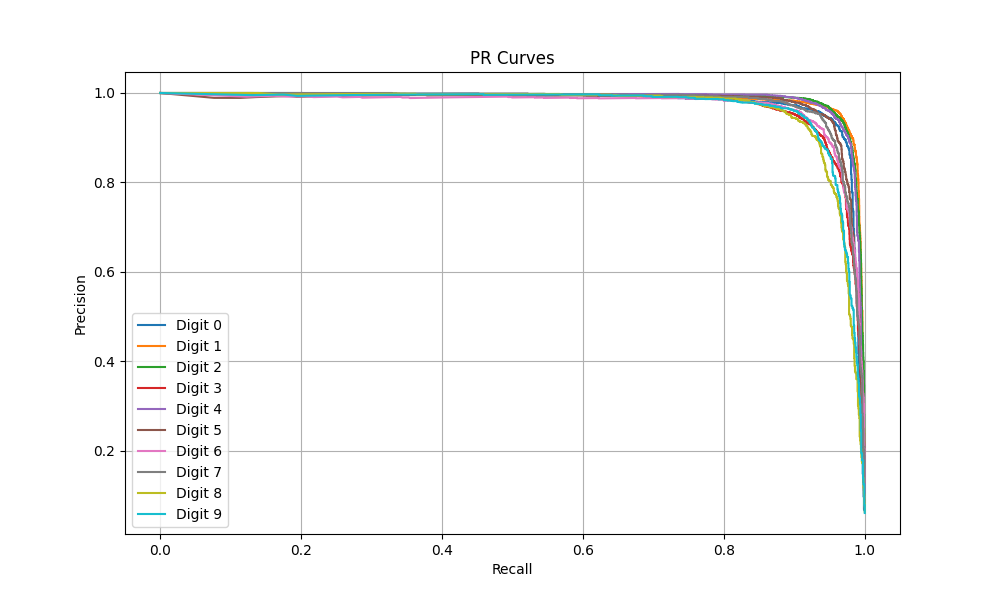
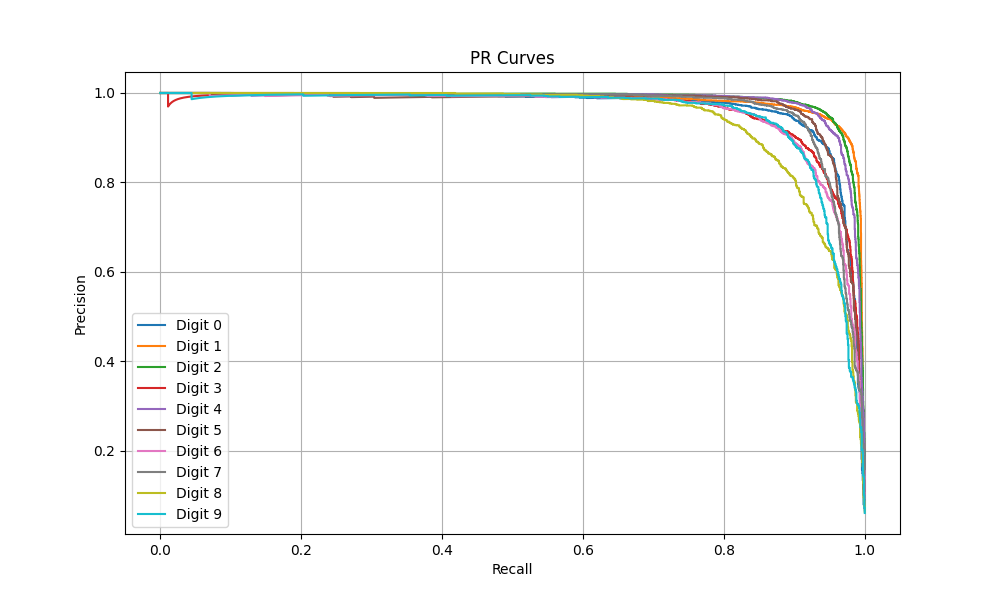
Fix: improve dacnn metrics

Changed region(s): [[0.155, 0.15, 0.868, 0.78]]

diff --git a/dacnn.py b/dacnn.py
@@ -27,7 +27,12 @@ class SpatialAttention(nn.Module):
     def __init__(self, in_channels):
         super().__init__()
 
-        self.conv = nn.Conv2d(in_channels=in_channels, out_channels=1, kernel_size=1)
+        # self.conv = nn.Conv2d(in_channels=in_channels, out_channels=1, kernel_size=1)
+        self.conv = nn.Sequential(
+            nn.Conv2d(in_channels, in_channels//2, 1),
+            nn.ReLU(),
+            nn.Conv2d(in_channels//2, 1, 1)
+        )
 
     def forward(self, x):
         attn = torch.sigmoid(self.conv(x))
@@ -39,14 +44,18 @@ class DenseAttnBlock(nn.Module):
 
         self.mod_list = nn.ModuleList()
         self.attn_list = nn.ModuleList()
+        channels = in_channels
+
         for _ in range(num_layers):
-            self.mod_list.append(DenseLayer(in_channels=in_channels, growth=growth))
-            self.attn_list.append(SpatialAttention(in_channels=in_channels))
-            in_channels += growth
+            self.mod_list.append(DenseLayer(channels, growth))
+            channels += growth
+            self.attn_list.append(SpatialAttention(channels))
+
+        self.out_channels = channels
 
     def forward(self, x):
-        for layers, attn in zip(self.mod_list, self.attn_list):
-            x = layers(x)
+        for layer, attn in zip(self.mod_list, self.attn_list):
+            x = layer(x)
             x = attn(x)
         return x
 
@@ -80,12 +89,17 @@ class DACNN(nn.Module):
         self.channel_attn = ChannelAttention(self.block3.out_channels, reduction=2)
         self.pool = nn.AdaptiveAvgPool2d(1)
         self.fc = nn.Linear(self.block3.out_channels, num_classes)
+        self.pool1 = nn.MaxPool2d(2)
+        self.pool2 = nn.MaxPool2d(2)
+        self.dropout = nn.Dropout(0.3)
 
     def forward(self, x):
         x = self.init_conv(x)
 
         x = self.block1(x)
+        x = self.pool1(x)
         x = self.block2(x)
+        x = self.pool2(x)
         x = self.block3(x)
 
         x = self.channel_attn(x)
@@ -93,5 +107,6 @@ class DACNN(nn.Module):
         x = self.pool(x)
         x = torch.flatten(x, 1)
 
+        x = self.dropout(x)
         x = self.fc(x)
         return x

diff --git a/run.py b/run.py
@@ -197,7 +197,7 @@ def evaluate(model_path, config, device):
     return metrics
 
 def test(model_path, test_dir: Path, config, device):
-    import os
+    # import os
 
     os.makedirs("graded_images", exist_ok=True)
 
@@ -228,9 +228,7 @@ def test(model_path, test_dir: Path, config, device):
                 ))
 
         boxes = simple_nms(all_boxes)
-
         rois = extract_rois(image, boxes)
-
         predictions = []
 
         for roi, (x, y, w, h) in rois:
@@ -248,13 +246,10 @@ def test(model_path, test_dir: Path, config, device):
             predictions.append((x, y, w, h, pred.item()))
 
         predictions = sorted(predictions, key=lambda x: x[0])
-
         digits = [str(p[4]) for p in predictions]
         print(f"Predicted sequence: {''.join(digits)}")
 
-
         vis_img = image.copy()
-
         for (x, y, w, h, pred) in predictions:
             cv2.rectangle(vis_img, (x, y), (x+w, y+h), (0, 255, 0), 1)
             cv2.putText(vis_img, str(pred), (x, y-5),
@@ -275,15 +270,19 @@ def main():
     print(f"Using device: {device} | Model: {model_name}")
 
     model = build_model(config)
-
-    mode = "train"
+    mode = config['mode']
 
     if mode == "train":
         print("--- Starting Training ---")
         train(model, model_name, config, device)
 
-    metrics = evaluate(DEFAULT_MODEL_PATH, config, device)
-    print(f"Final Test Accuracy: {metrics['accuracy']:.4f}")
+        metrics = evaluate(DEFAULT_MODEL_PATH, config, device)
+        print(f"Final Test Accuracy: {metrics['accuracy']:.4f}")
+
+    elif mode == 'test':
+        print("--- Starting Testing ---")
+        test(model_path=DEFAULT_MODEL_PATH,test_dir=TEST_DIR,config=config, device=get_device())
+        print("--- Completed Testing ---")
 
 if __name__ == "__main__":
     main()
